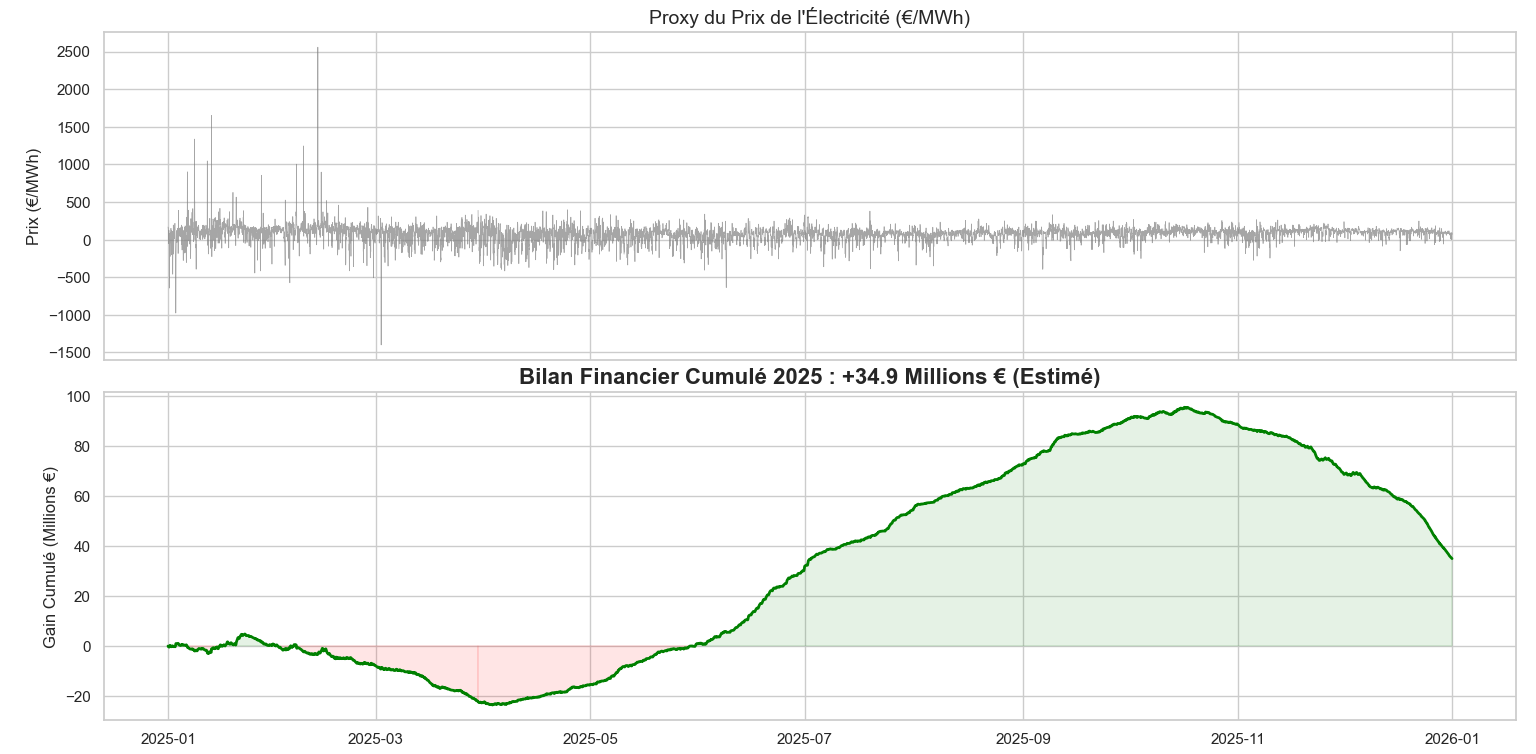
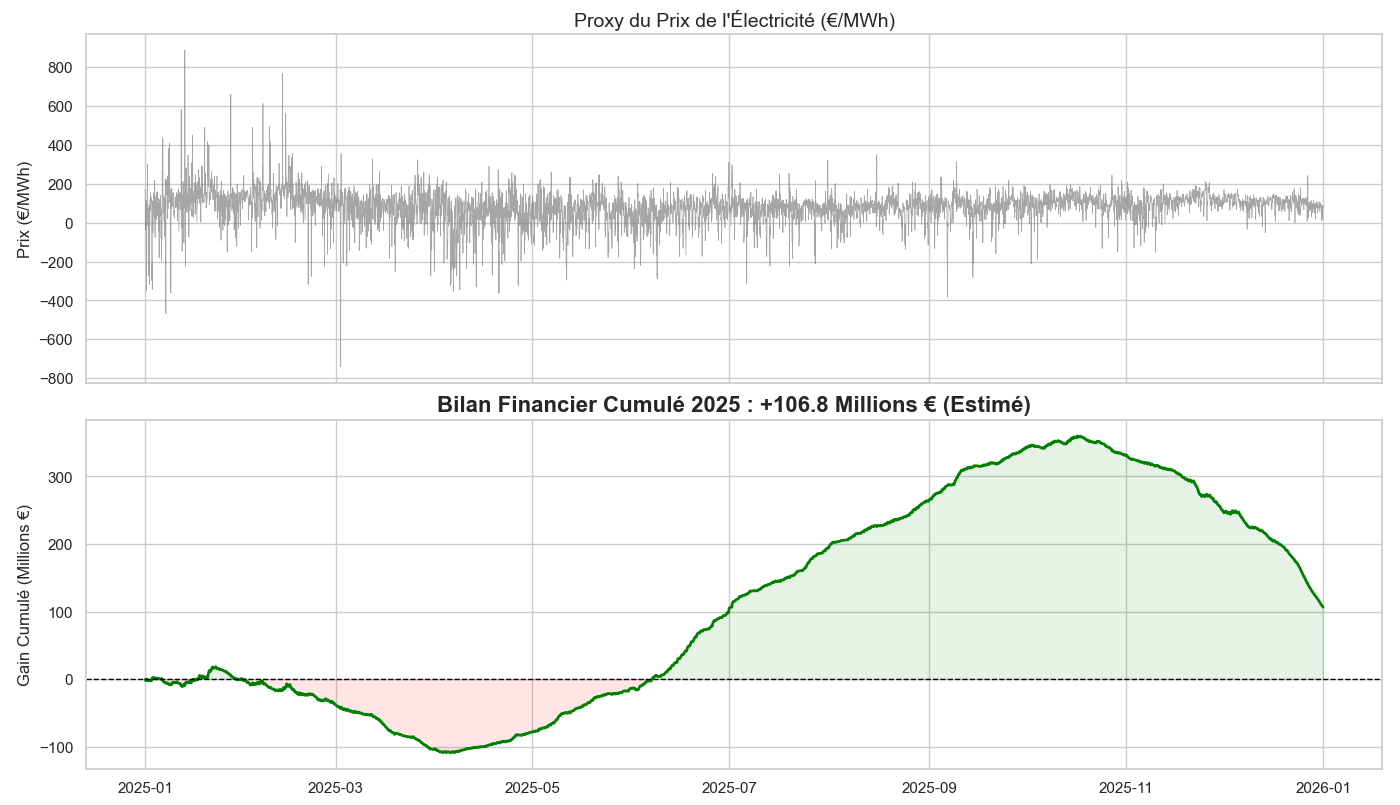
Centralisation des calculs pour l'analyse financière dans le loader

diff --git a/src/cost_analyzer.py b/src/cost_analyzer.py
@@ -1,75 +1,47 @@
 import matplotlib.pyplot as plt
 import seaborn as sns
 import pandas as pd
-import numpy as np
 
 class CostAnalyzer:
     def __init__(self, df):
         self.df = df
 
     def plot_financial_balance(self):
-        print("Analyse Financière (Estimation via Proxy Prix)...")
+        print("Génération Graphe : Bilan Financier (Est. 2025)...")
         
-        # 1. Identification des colonnes
-        # On cherche les colonnes "Import", "Export"
-        col_import = next((c for c in self.df.columns if str(c).strip() == "Import"), None)
-        col_export = next((c for c in self.df.columns if str(c).strip() == "Export"), None)
-        
-        # On cherche les colonnes Prix (Proxy : Prix de réglage secondaire)
-        # Colonne T/V/W approx. On cherche par mots-clés "positive" et "negative"
-        col_price_pos = next((c for c in self.df.columns if "positive" in str(c).lower() and "preise" in str(c).lower()), None)
-        col_price_neg = next((c for c in self.df.columns if "negative" in str(c).lower() and "preise" in str(c).lower()), None)
-        
-        if not all([col_import, col_export, col_price_pos, col_price_neg]):
-            print("⚠ Impossible de faire l'analyse financière (Colonnes manquantes).")
+        required = ['Price_EUR', 'Revenue_Cumul_Million_EUR']
+        if not all(col in self.df.columns for col in required):
+            print(f"⚠ Erreur : Colonnes financières manquantes ({required}). Vérifiez le Loader.")
             return
 
-        # 2. Construction du Prix Proxy (Moyenne Positif/Négatif)
-        # C'est une estimation brute du "Prix du Marché" à cet instant
-        price_proxy = (self.df[col_price_pos] + self.df[col_price_neg]) / 2
-        
-        # On remplit les trous éventuels (forward fill)
-        price_proxy = price_proxy.fillna(method='ffill')
-
-        # 3. Calcul du Bilan Horaire (€)
-        # Bilan = (Export * Prix) - (Import * Prix)
-        # Export rapporte (+), Import coûte (-)
-        
-        # On travaille en ÉNERGIE (MWh) par heure
-        energy_import_mwh = self.df[col_import].resample('h').sum() / 1000
-        energy_export_mwh = self.df[col_export].resample('h').sum() / 1000
-        avg_price_hourly = price_proxy.resample('h').mean()
-        
-        # Revenu Net (€) = (Ventes - Achats)
-        net_revenue_euro = (energy_export_mwh - energy_import_mwh) * avg_price_hourly
-        
-        # Cumul annuel (Pour voir si on finit l'année riche ou pauvre)
-        cumulative_revenue_million = net_revenue_euro.cumsum() / 1_000_000 # En Millions d'Euros
-
-        # 4. Visualisation
         sns.set_theme(style="whitegrid")
         fig, (ax1, ax2) = plt.subplots(2, 1, figsize=(14, 10), sharex=True)
 
-        # Graphe 1 : Le Prix Proxy (Pour voir la volatilité)
-        ax1.plot(avg_price_hourly.index, avg_price_hourly, color='grey', lw=0.5, alpha=0.7)
+        # Graphe 1 : Le Prix (Volatilité)
+        # On affiche une moyenne glissante légère pour la lisibilité si besoin, ou brut
+        ax1.plot(self.df.index, self.df['Price_EUR'], color='grey', lw=0.5, alpha=0.7)
         ax1.set_title("Proxy du Prix de l'Électricité (€/MWh)", fontsize=14)
         ax1.set_ylabel("Prix (€/MWh)")
 
-        # Graphe 2 : Le Trésor de Guerre (Cumul)
-        # Si la courbe finit positive > La Suisse a gagné de l'argent
-        color_line = 'green' if cumulative_revenue_million.iloc[-1] > 0 else 'red'
-        ax2.plot(cumulative_revenue_million.index, cumulative_revenue_million, color=color_line, lw=2)
+        # Graphe 2 : Le Cumul (Trésor de Guerre)
+        cumul = self.df['Revenue_Cumul_Million_EUR']
         
-        # Zone verte/rouge
-        ax2.fill_between(cumulative_revenue_million.index, cumulative_revenue_million, 0, 
-                         where=(cumulative_revenue_million > 0), color='green', alpha=0.1)
-        ax2.fill_between(cumulative_revenue_million.index, cumulative_revenue_million, 0, 
-                         where=(cumulative_revenue_million < 0), color='red', alpha=0.1)
+        # Couleur dynamique : Vert si on finit positif, Rouge si négatif
+        final_bilan = cumul.iloc[-1]
+        color_line = 'green' if final_bilan > 0 else 'red'
+        
+        ax2.plot(cumul.index, cumul, color=color_line, lw=2)
+        
+        # Remplissage vert/rouge
+        ax2.fill_between(cumul.index, cumul, 0, where=(cumul > 0), color='green', alpha=0.1)
+        ax2.fill_between(cumul.index, cumul, 0, where=(cumul < 0), color='red', alpha=0.1)
 
-        final_bilan = cumulative_revenue_million.iloc[-1]
         ax2.set_title(f"Bilan Financier Cumulé 2025 : {final_bilan:+.1f} Millions € (Estimé)", fontsize=16, fontweight='bold')
         ax2.set_ylabel("Gain Cumulé (Millions €)")
         
+        # Ligne zéro
+        ax2.axhline(0, color='black', lw=1, linestyle='--')
+
         plt.tight_layout()
-        print(f"Graphe Coûts généré. Bilan final estimé : {final_bilan:.2f} M€")
+        print(f"Graphique Financier généré. Bilan final : {final_bilan:.2f} M€")
         plt.show()

diff --git a/src/loader.py b/src/loader.py
@@ -71,4 +71,21 @@ class SwissGridLoader:
         else:
             df['Transit_MW'] = 0
 
+        # --- E. FINANCE & PRIX ---
+        # 1. Calcul du Prix Proxy (Moyenne Positif/Négatif)
+        col_price_pos = next((c for c in df.columns if "positive" in str(c).lower() and "preise" in str(c).lower()), None)
+        col_price_neg = next((c for c in df.columns if "negative" in str(c).lower() and "preise" in str(c).lower()), None)
+
+        # Moyenne des deux prix
+        price_proxy = (df[col_price_pos] + df[col_price_neg]) / 2
+        # Moyenne horaire
+        df['Price_EUR'] = price_proxy.resample('h').mean().fillna(method='ffill')
+
+        # 2. Calcul du Bilan Financier
+        # Revenu = (Volume Export - Volume Import) * Prix --- Estimation grossière
+        df['Net_Revenue_EUR'] = (df['Export_Total_MW'] - df['Import_Total_MW']) * df['Price_EUR']
+        
+        # 3. Cumul en Millions d'Euros
+        df['Revenue_Cumul_Million_EUR'] = df['Net_Revenue_EUR'].cumsum() / 1_000_000
+
         return df.dropna(subset=['Production_MW', 'Consumption_MW'])
